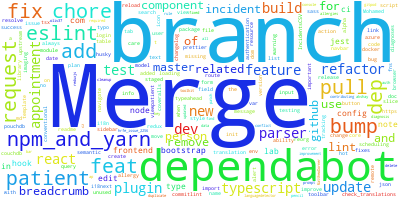
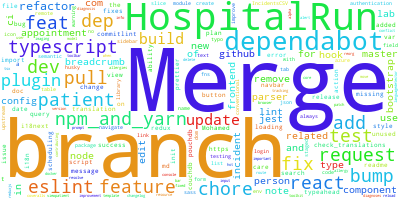
feat(hospitalrun): describe team's modus operandi

diff --git a/_posts/2022-06-02-how-the-team-works.md b/_posts/2022-06-02-how-the-team-works.md
@@ -1,0 +1,71 @@
+---
+layout: post
+title:  "Applied Software Forensics - How the Team Works"
+---
+
+## Results
+
+The following words appear most frequently in the commit messages between November 2019 and November 2020:
+
+![Word Cloud of Commit Messages](/assets/img/hospitalrun/wordcloud.png)
+
+To avoid some redundancy, the words "from", "to", "into" and "master'" were excluded from the cloud.
+
+The prominent words "merge" and "branch" indicate that much work is handed over by means of a pull request. "dependabot" ("dependabot-preview[bot]") plays an important role in maintaining the dependencies. It seems as if "HospitalRun Bot" is used to keep development branches in sync with the master branch (unfortunately, I did not find related documentation).
+
+The merge commits are distributed as follows:
+
+| Author | Number of Merge Commits |
+| ------ | ----------------------- |
+| HospitalRun Bot | 512 |
+| Matteo Vivona | 353 |
+| Maksim Sinik | 48 |
+| Jack Meyer | 23 |
+| Others | 215 |
+
+According to the word cloud, adding features, fixing issues, refactoring, maintaining dependencies (build) and chores
+play an equally important role in the commit messages. For dependency updates, dependabot-preview[bot] creates branches
+containing the word "npm_and_yarn". Usually, Matteo Vivona merges these branches. Especially eslint and typescript
+updates cause many commits.
+
+From a business context the patient and appointment domains were important during the development cycle.
+
+## Analyze the Team's Modus Operandi
+
+### Generate the Word Cloud Image
+
+```sh
+# https://github.com/amueller/word_cloud
+pip install wordcloud
+
+# Collect git commit messages for the time period from Nov. 10, 2019 to Nov. 7, 2020 line by line
+cd frontend
+git log --pretty=format:'%s' 01bd9cbf..1f0dadcf > ../analysis/wordcloud-input.txt
+
+cd ../analysis
+
+# Create empty stopwords list (words which are ignored in the cloud)
+touch wordcloud-stopwords.txt
+
+# Repeat:
+# - Run wordcloud_cli
+# - Check the output png
+# - Add words to the stopwords (one word per line)
+wordcloud_cli --text=wordcloud-input.txt --imagefile=wordcloud.png --stopwords=wordcloud-stopwords.txt --no_collocations --background white
+```
+
+### Investigate: Type of Work and Associated Authors
+
+```sh
+# Sort commit messages by author name
+cd ../frontend
+git log --pretty=format:'%an,%s' 01bd9cbf..1f0dadcf | sort > ../analysis/commits-by-author.csv
+
+# Count the number of commit messages containing a specific word (i.e. author or type of work)
+cd ../analysis
+grep "Merge" commits-by-author.csv | grep "HospitalRun Bot" | wc -l
+grep "Merge" commits-by-author.csv | grep -E --invert-match "HospitalRun Bot|dependabot-preview[bot]|Matteo Vivona|Maksim Sinik|Jack Meyer" | wc -l
+```
+
+While doing this analysis, really searching, reading and scrolling through the `commits-by-author.csv` file provides
+interesting insights.
